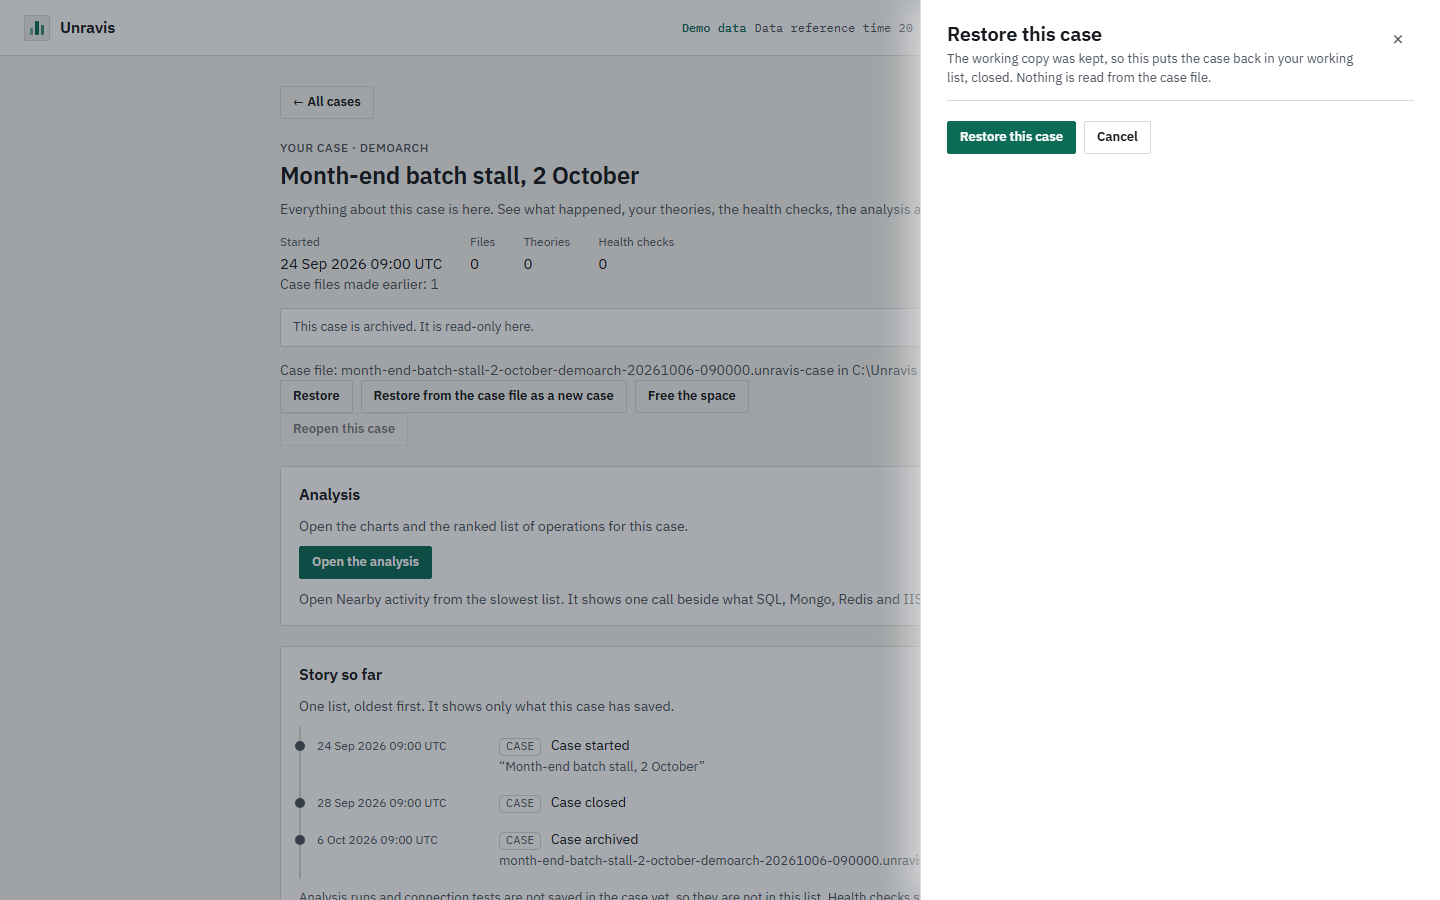
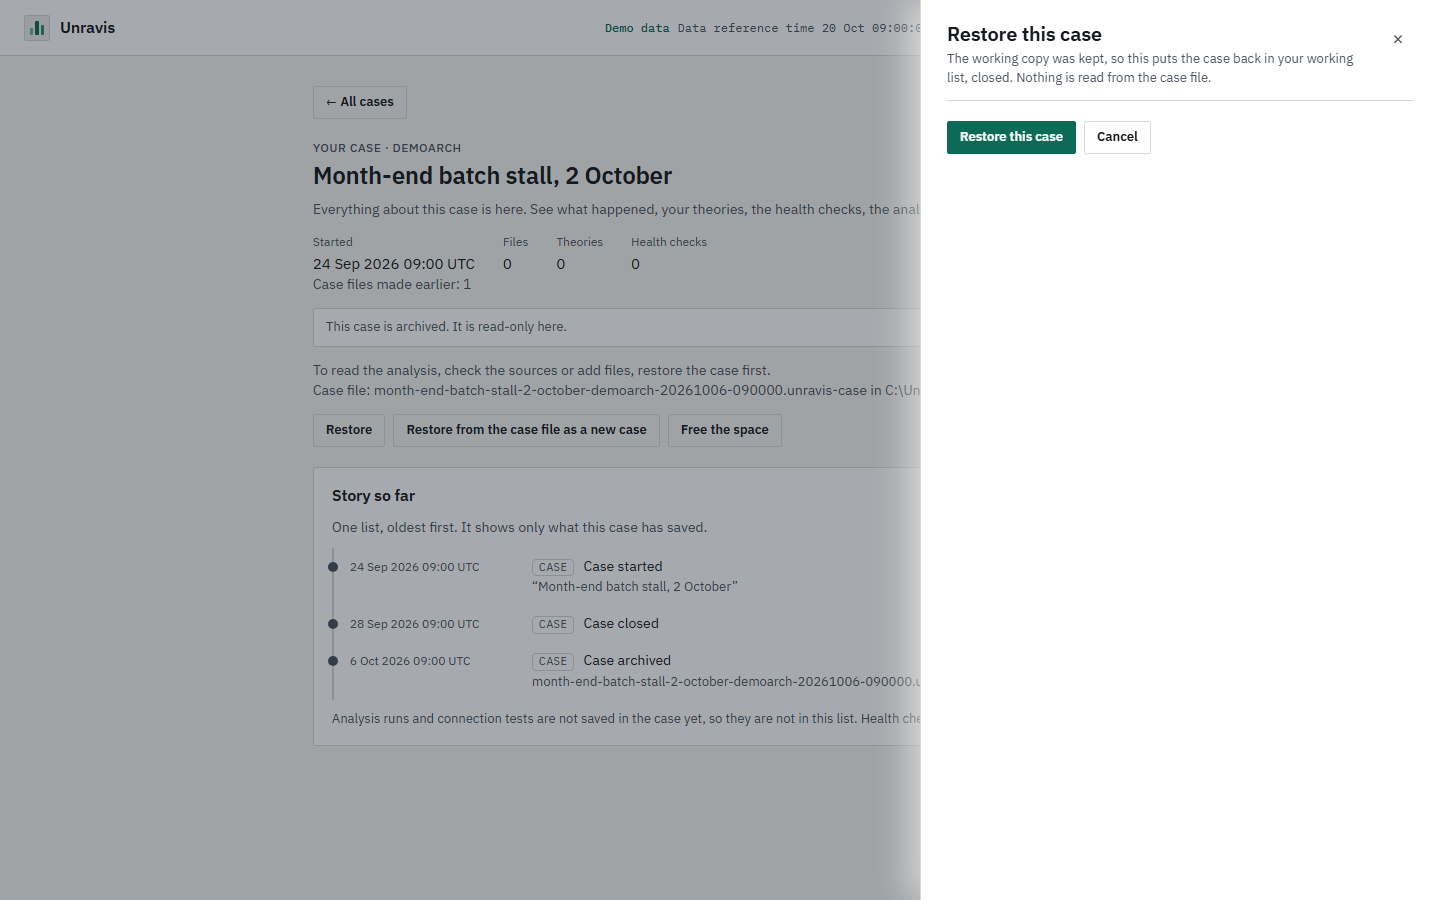
P3: regenerate P3 screen baselines after the fixes

diff --git a/buildout/docs/cases.md b/buildout/docs/cases.md
@@ -146,7 +146,7 @@ Before a master key is reset ("Start over with a new master key"), the page says
 
 A freed case is not "Missing". An archived case page is read-only: the analysis and Reopen are not offered, and the page says to restore first. A freed case stays in the Archived list, labelled "Space freed", and can be restored as a new case.
 
-Screens: `p3-free-1` is the first stage.
+Screens: `p3-free-1` is the first stage. The demo has no master key, so it shows the "Set a master key" message instead of the check.
 
 ![Free the space, stage 1, dark](../screenshots/P3/p3-free-1-dark.png)
 ![Free the space, stage 1, light](../screenshots/P3/p3-free-1-light.png)
@@ -160,7 +160,7 @@ There are two ways back.
 
 A case file made before this version still restores with "Restore from a case file" on the start screen.
 
-Screens: `p3-restore-in-place` and `p3-restore-as-new`.
+Screens: `p3-restore-in-place` and `p3-restore-as-new`. The demo has no master key, so the second shows the "Set a master key" message.
 
 ![Restore in place, light](../screenshots/P3/p3-restore-in-place-light.png)
 ![Restore as a new case, dark](../screenshots/P3/p3-restore-as-new-dark.png)
